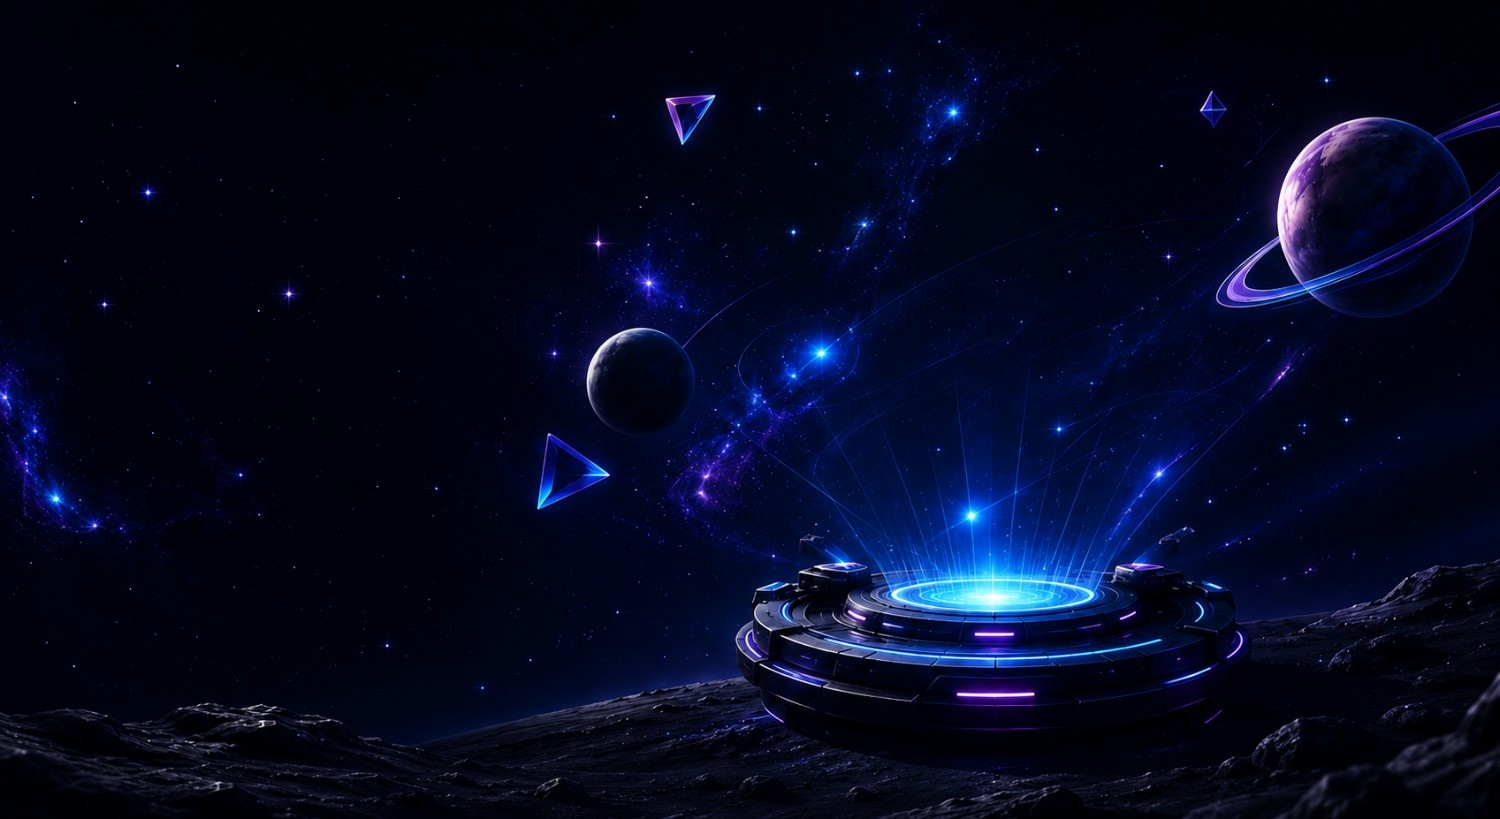
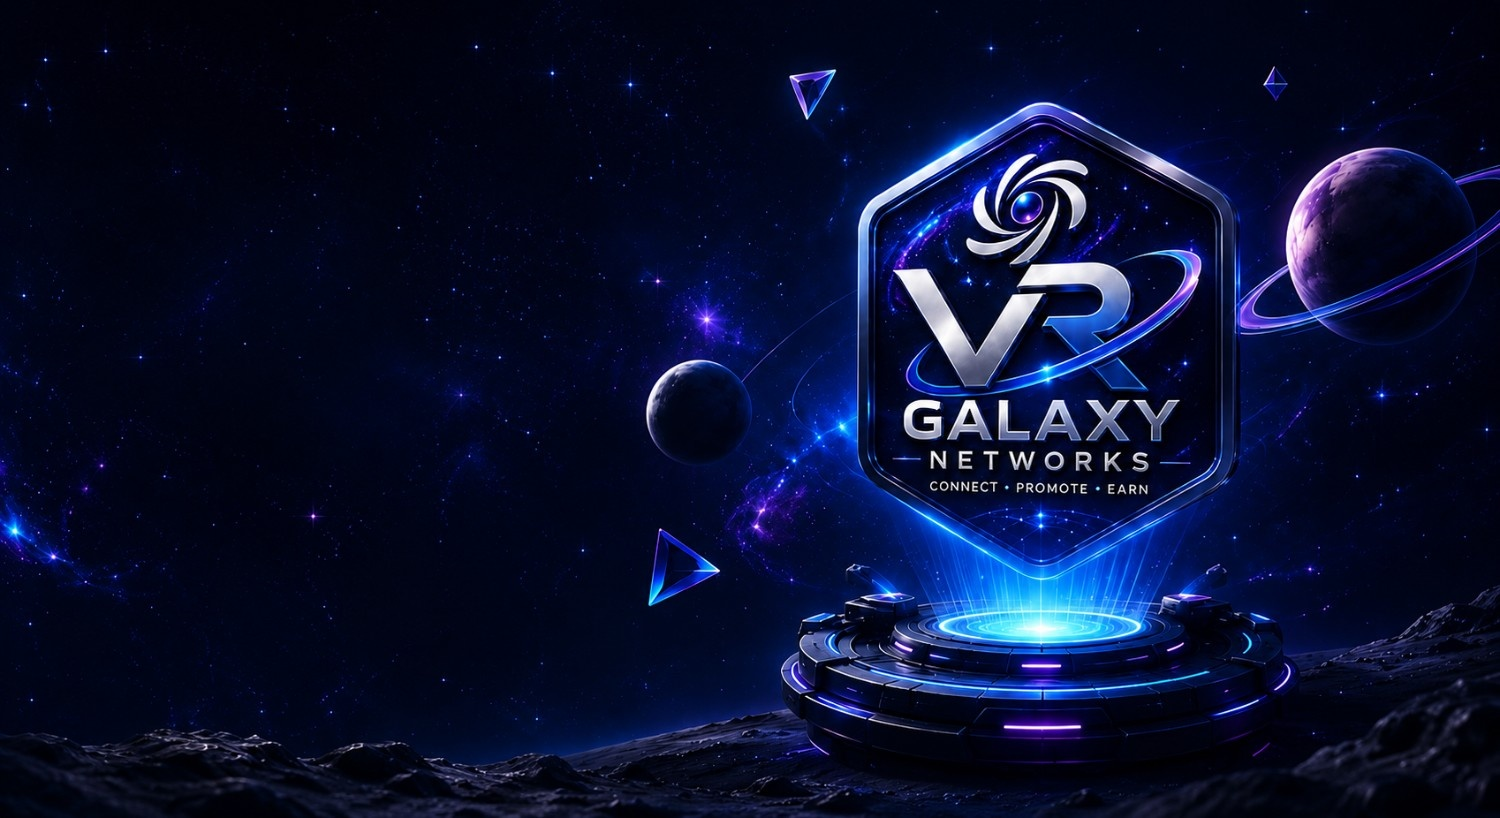
change bg on forms

diff --git a/components/home/HeroSection.tsx b/components/home/HeroSection.tsx
@@ -30,20 +30,9 @@ export function HeroSection() {
 
   return (
     <section
-      className="relative w-full overflow-hidden bg-[#02040a] flex flex-col min-h-[100svh] lg:h-[100svh] lg:max-h-[100svh]"
-      aria-label="Hero Section"
+      className="relative w-full overflow-hidden bg-[#02040a] flex flex-col min-h-[100svh] lg:h-[100svh] lg:max-h-[100svh] bg-cover bg-center bg-no-repeat bg-[url('/bg1.jpeg')] lg:bg-[url('/bg.jpeg')]"
+      aria-label="VR Galaxy Networks Hero Section"
     >
-      {/* ── Responsive Cosmic Background ── */}
-      <picture className="absolute inset-0 w-full h-full pointer-events-none select-none z-0">
-        <source media="(max-width: 768px)" srcSet="/bg1.jpeg" />
-        <source media="(min-width: 769px)" srcSet="/bg.jpeg" />
-        <img
-          src="/bg.jpeg"
-          alt="Cosmic Background"
-          className="w-full h-full object-cover"
-        />
-      </picture>
-
       {/* Subtle Dark Overlay for Higher Text Contrast */}
       <div className="absolute inset-0 bg-black/15 pointer-events-none select-none z-10" />
 
@@ -90,8 +79,20 @@ export function HeroSection() {
                 </span>
               </motion.div>
 
-              {/* Giant stacked headings */}
-              <div className="flex flex-col gap-1 mb-5 font-black tracking-tight leading-[0.9] w-full min-w-0">
+              {/* Giant stacked headings (semantic h1 for SEO) */}
+              <motion.h1
+                initial="hidden"
+                animate="visible"
+                variants={{
+                  hidden: { opacity: 0 },
+                  visible: {
+                    opacity: 1,
+                    transition: { staggerChildren: 0.12 }
+                  }
+                }}
+                className="flex flex-col gap-1 mb-5 font-black tracking-tight leading-[0.9] w-full min-w-0"
+                style={{ fontSize: 'clamp(2.4rem, 6.2vw, 4.8rem)' }}
+              >
                 {[
                   { key: 'title1', className: 'text-white' },
                   { key: 'title2', className: 'text-white' },
@@ -100,30 +101,30 @@ export function HeroSection() {
                     className:
                       'bg-gradient-to-r from-purple-400 via-indigo-400 to-blue-500 bg-clip-text text-transparent drop-shadow-[0_0_20px_rgba(168,85,247,0.55)]',
                   },
-                ].map(({ key, className }, idx) => (
-                  <motion.h1
+                ].map(({ key, className }) => (
+                  <motion.span
                     key={key}
-                    initial={{ opacity: 0, x: -25 }}
-                    animate={{ opacity: 1, x: 0 }}
-                    transition={{ duration: 0.65, delay: 0.1 + idx * 0.12 }}
+                    variants={{
+                      hidden: { opacity: 0, x: -25 },
+                      visible: { opacity: 1, x: 0, transition: { duration: 0.65 } }
+                    }}
                     className={className}
-                    style={{ fontSize: 'clamp(2.4rem, 6.2vw, 4.8rem)' }}
                   >
                     {t(key as 'title1' | 'title2' | 'title3')}
-                  </motion.h1>
+                  </motion.span>
                 ))}
-              </div>
+              </motion.h1>
 
-              {/* Subtitle */}
-              <motion.p
+              {/* Subtitle (semantic h2 for SEO) */}
+              <motion.h2
                 initial={{ opacity: 0, y: 12 }}
                 animate={{ opacity: 1, y: 0 }}
                 transition={{ duration: 0.7, delay: 0.42 }}
-                className="text-slate-300 leading-relaxed font-semibold mb-6 max-w-xl"
+                className="text-slate-300 leading-relaxed font-semibold mb-6 max-w-xl text-balance"
                 style={{ fontSize: 'clamp(0.85rem,1.5vw,1.1rem)' }}
               >
                 {t('subtitle')}
-              </motion.p>
+              </motion.h2>
 
               {/* CTA Buttons */}
               <motion.div
@@ -226,40 +227,8 @@ export function HeroSection() {
               </div>
             </div>
 
-            {/* ── RIGHT COLUMN (Floating 3D Logo Badge) ── */}
-            <div className="lg:col-span-5 flex items-center justify-center relative w-full min-w-0 overflow-visible py-8 lg:py-0">
-              <motion.div
-                initial={{ opacity: 0, scale: 0.85, y: 15 }}
-                animate={{ 
-                  opacity: 1, 
-                  scale: 1, 
-                  y: [0, -15, 0] 
-                }}
-                transition={{
-                  opacity: { duration: 0.8, delay: 0.2 },
-                  scale: { duration: 0.8, delay: 0.2 },
-                  y: { 
-                    duration: 6, 
-                    repeat: Infinity, 
-                    ease: 'easeInOut' 
-                  }
-                }}
-                whileHover={{ scale: 1.05, rotateY: 8, rotateX: -4 }}
-                className="relative flex items-center justify-center cursor-pointer select-none"
-                style={{
-                  width: 'clamp(220px, 38vw, 440px)',
-                  height: 'clamp(220px, 38vw, 440px)',
-                  transformStyle: 'preserve-3d',
-                  perspective: '1000px',
-                }}
-              >
-                <img
-                  src="/logo.png"
-                  alt="VR Galaxy Networks"
-                  className="w-full h-full object-contain filter drop-shadow-[0_0_35px_rgba(59,130,246,0.4)]"
-                />
-              </motion.div>
-            </div>
+            {/* ── RIGHT COLUMN (Empty Spacer to reveal the background image pedestal/logo) ── */}
+            <div className="lg:col-span-5 hidden lg:block w-full min-w-0" />
 
           </div>
         </div>

diff --git a/app/(auth)/register/page.tsx b/app/(auth)/register/page.tsx
@@ -12,7 +12,13 @@ import { Suspense } from 'react'
 function SubmitButton() {
   const { pending } = useFormStatus()
   return (
-    <Button type="submit" size="lg" className="w-full" loading={pending}>
+    <Button
+      type="submit"
+      size="lg"
+      className="w-full rounded-full font-extrabold text-white bg-gradient-to-r from-purple-600 via-indigo-600 to-blue-500 hover:from-purple-500 hover:to-blue-400 transition-all duration-300 shadow-[0_0_25px_rgba(168,85,247,0.5)] hover:shadow-[0_0_35px_rgba(59,130,246,0.65)] border border-white/10 gap-2 cursor-pointer flex items-center justify-center"
+      style={{ height: 'clamp(2.75rem,5.5vh,3.5rem)', fontSize: 'clamp(0.85rem,1.3vw,1rem)' }}
+      loading={pending}
+    >
       {pending ? 'Creating Account...' : 'Create Account'}
     </Button>
   )
@@ -41,7 +47,7 @@ function RegisterForm() {
       {/* Logo */}
       <div className="text-center mb-6">
         <Link href="/" className="inline-flex items-center gap-2 font-bold text-xl mb-3">
-          <div className="w-10 h-10 rounded-xl bg-gradient-to-br from-primary to-blue-600 flex items-center justify-center">
+          <div className="w-10 h-10 rounded-xl bg-gradient-to-r from-purple-600 via-indigo-600 to-blue-500 flex items-center justify-center">
             <TrendingUp className="w-5 h-5 text-white" />
           </div>
           <span className="text-white text-2xl">InvestPro</span>
@@ -66,7 +72,7 @@ function RegisterForm() {
           <label className="text-xs text-white/70 font-medium block mb-1">Full Name</label>
           <div className="relative">
             <User className="absolute left-3 top-1/2 -translate-y-1/2 w-4 h-4 text-white/40" />
-            <input name="name" type="text" required placeholder="Arjun Kumar" className="w-full pl-10 pr-4 py-2.5 rounded-xl bg-white/10 border border-white/10 text-white placeholder:text-white/30 focus:outline-none focus:ring-2 focus:ring-primary/50 text-sm transition-all" />
+            <input name="name" type="text" required placeholder="Arjun Kumar" className="w-full pl-10 pr-4 py-2.5 rounded-xl bg-white/10 border border-white/10 text-white placeholder:text-white/30 focus:outline-none focus:ring-2 focus:ring-indigo-500/50 focus:border-indigo-400 text-sm transition-all" />
           </div>
         </div>
 
@@ -75,7 +81,7 @@ function RegisterForm() {
           <label className="text-xs text-white/70 font-medium block mb-1">Email Address</label>
           <div className="relative">
             <Mail className="absolute left-3 top-1/2 -translate-y-1/2 w-4 h-4 text-white/40" />
-            <input name="email" type="email" required placeholder="[email redacted]" className="w-full pl-10 pr-4 py-2.5 rounded-xl bg-white/10 border border-white/10 text-white placeholder:text-white/30 focus:outline-none focus:ring-2 focus:ring-primary/50 text-sm transition-all" />
+            <input name="email" type="email" required placeholder="[email redacted]" className="w-full pl-10 pr-4 py-2.5 rounded-xl bg-white/10 border border-white/10 text-white placeholder:text-white/30 focus:outline-none focus:ring-2 focus:ring-indigo-500/50 focus:border-indigo-400 text-sm transition-all" />
           </div>
         </div>
 
@@ -84,7 +90,7 @@ function RegisterForm() {
           <label className="text-xs text-white/70 font-medium block mb-1">Phone Number</label>
           <div className="relative">
             <Phone className="absolute left-3 top-1/2 -translate-y-1/2 w-4 h-4 text-white/40" />
-            <input name="phone" type="tel" required placeholder="[phone redacted]" className="w-full pl-10 pr-4 py-2.5 rounded-xl bg-white/10 border border-white/10 text-white placeholder:text-white/30 focus:outline-none focus:ring-2 focus:ring-primary/50 text-sm transition-all" />
+            <input name="phone" type="tel" required placeholder="[phone redacted]" className="w-full pl-10 pr-4 py-2.5 rounded-xl bg-white/10 border border-white/10 text-white placeholder:text-white/30 focus:outline-none focus:ring-2 focus:ring-indigo-500/50 focus:border-indigo-400 text-sm transition-all" />
           </div>
         </div>
 
@@ -93,7 +99,7 @@ function RegisterForm() {
           <label className="text-xs text-white/70 font-medium block mb-1">Password</label>
           <div className="relative">
             <Lock className="absolute left-3 top-1/2 -translate-y-1/2 w-4 h-4 text-white/40" />
-            <input name="password" type={showPassword ? 'text' : 'password'} required placeholder="Min 8 chars, 1 uppercase, 1 number" className="w-full pl-10 pr-10 py-2.5 rounded-xl bg-white/10 border border-white/10 text-white placeholder:text-white/30 focus:outline-none focus:ring-2 focus:ring-primary/50 text-sm transition-all" />
+            <input name="password" type={showPassword ? 'text' : 'password'} required placeholder="Min 8 chars, 1 uppercase, 1 number" className="w-full pl-10 pr-10 py-2.5 rounded-xl bg-white/10 border border-white/10 text-white placeholder:text-white/30 focus:outline-none focus:ring-2 focus:ring-indigo-500/50 focus:border-indigo-400 text-sm transition-all" />
             <button type="button" onClick={() => setShowPassword(!showPassword)} className="absolute right-3 top-1/2 -translate-y-1/2 text-white/40 hover:text-white/70">
               {showPassword ? <EyeOff className="w-4 h-4" /> : <Eye className="w-4 h-4" />}
             </button>
@@ -105,7 +111,7 @@ function RegisterForm() {
           <label className="text-xs text-white/70 font-medium block mb-1">Confirm Password</label>
           <div className="relative">
             <Lock className="absolute left-3 top-1/2 -translate-y-1/2 w-4 h-4 text-white/40" />
-            <input name="confirmPassword" type="password" required placeholder="Re-enter password" className="w-full pl-10 pr-4 py-2.5 rounded-xl bg-white/10 border border-white/10 text-white placeholder:text-white/30 focus:outline-none focus:ring-2 focus:ring-primary/50 text-sm transition-all" />
+            <input name="confirmPassword" type="password" required placeholder="Re-enter password" className="w-full pl-10 pr-4 py-2.5 rounded-xl bg-white/10 border border-white/10 text-white placeholder:text-white/30 focus:outline-none focus:ring-2 focus:ring-indigo-500/50 focus:border-indigo-400 text-sm transition-all" />
           </div>
         </div>
 
@@ -114,7 +120,7 @@ function RegisterForm() {
           <label className="text-xs text-white/70 font-medium block mb-1">Referral Code (Optional)</label>
           <div className="relative">
             <Gift className="absolute left-3 top-1/2 -translate-y-1/2 w-4 h-4 text-white/40" />
-            <input name="referralCode" type="text" defaultValue={refCode} placeholder="ARJUN001" className="w-full pl-10 pr-4 py-2.5 rounded-xl bg-white/10 border border-white/10 text-white placeholder:text-white/30 focus:outline-none focus:ring-2 focus:ring-primary/50 text-sm transition-all" />
+            <input name="referralCode" type="text" defaultValue={refCode} placeholder="ARJUN001" className="w-full pl-10 pr-4 py-2.5 rounded-xl bg-white/10 border border-white/10 text-white placeholder:text-white/30 focus:outline-none focus:ring-2 focus:ring-indigo-500/50 focus:border-indigo-400 text-sm transition-all" />
           </div>
         </div>
 
@@ -123,9 +129,9 @@ function RegisterForm() {
           <input name="terms" type="checkbox" required className="mt-0.5 rounded" />
           <span className="text-xs text-white/50">
             I agree to the{' '}
-            <Link href="/terms" className="text-primary hover:underline">Terms & Conditions</Link>{' '}
+            <Link href="/terms" className="text-indigo-400 hover:text-indigo-300 hover:underline">Terms & Conditions</Link>{' '}
             and{' '}
-            <Link href="/privacy" className="text-primary hover:underline">Privacy Policy</Link>
+            <Link href="/privacy" className="text-indigo-400 hover:text-indigo-300 hover:underline">Privacy Policy</Link>
           </span>
         </label>
 
@@ -134,7 +140,7 @@ function RegisterForm() {
 
       <p className="text-center text-sm text-white/50 mt-4">
         Already have an account?{' '}
-        <Link href="/login" className="text-primary font-medium hover:underline">Sign In</Link>
+        <Link href="/login" className="text-indigo-400 hover:text-indigo-300 font-medium hover:underline">Sign In</Link>
       </p>
     </div>
   )

diff --git a/app/(auth)/login/page.tsx b/app/(auth)/login/page.tsx
@@ -11,7 +11,13 @@ import type { Metadata } from 'next'
 function SubmitButton() {
   const { pending } = useFormStatus()
   return (
-    <Button type="submit" size="lg" className="w-full" loading={pending}>
+    <Button
+      type="submit"
+      size="lg"
+      className="w-full rounded-full font-extrabold text-white bg-gradient-to-r from-purple-600 via-indigo-600 to-blue-500 hover:from-purple-500 hover:to-blue-400 transition-all duration-300 shadow-[0_0_25px_rgba(168,85,247,0.5)] hover:shadow-[0_0_35px_rgba(59,130,246,0.65)] border border-white/10 gap-2 cursor-pointer flex items-center justify-center"
+      style={{ height: 'clamp(2.75rem,5.5vh,3.5rem)', fontSize: 'clamp(0.85rem,1.3vw,1rem)' }}
+      loading={pending}
+    >
       {pending ? 'Signing in...' : 'Sign In'}
     </Button>
   )
@@ -34,7 +40,7 @@ export default function LoginPage() {
       {/* Logo */}
       <div className="text-center mb-8">
         <Link href="/" className="inline-flex items-center gap-2 font-bold text-xl mb-4">
-          <div className="w-10 h-10 rounded-xl bg-gradient-to-br from-primary to-blue-600 flex items-center justify-center">
+          <div className="w-10 h-10 rounded-xl bg-gradient-to-r from-purple-600 via-indigo-600 to-blue-500 flex items-center justify-center">
             <TrendingUp className="w-5 h-5 text-white" />
           </div>
           <span className="text-white text-2xl">InvestPro</span>
@@ -60,7 +66,7 @@ export default function LoginPage() {
               type="email"
               required
               placeholder="[email redacted]"
-              className="w-full pl-10 pr-4 py-3 rounded-xl bg-white/10 border border-white/10 text-white placeholder:text-white/30 focus:outline-none focus:ring-2 focus:ring-primary/50 focus:border-primary transition-all"
+              className="w-full pl-10 pr-4 py-3 rounded-xl bg-white/10 border border-white/10 text-white placeholder:text-white/30 focus:outline-none focus:ring-2 focus:ring-indigo-500/50 focus:border-indigo-400 transition-all"
             />
           </div>
         </div>
@@ -69,7 +75,7 @@ export default function LoginPage() {
         <div>
           <div className="flex items-center justify-between mb-1.5">
             <label className="text-sm text-white/70 font-medium">Password</label>
-            <Link href="/forgot-password" className="text-xs text-primary hover:underline">
+            <Link href="/forgot-password" className="text-xs text-indigo-400 hover:text-indigo-300 hover:underline">
               Forgot password?
             </Link>
           </div>
@@ -80,7 +86,7 @@ export default function LoginPage() {
               type={showPassword ? 'text' : 'password'}
               required
               placeholder="••••••••"
-              className="w-full pl-10 pr-10 py-3 rounded-xl bg-white/10 border border-white/10 text-white placeholder:text-white/30 focus:outline-none focus:ring-2 focus:ring-primary/50 focus:border-primary transition-all"
+              className="w-full pl-10 pr-10 py-3 rounded-xl bg-white/10 border border-white/10 text-white placeholder:text-white/30 focus:outline-none focus:ring-2 focus:ring-indigo-500/50 focus:border-indigo-400 transition-all"
             />
             <button
               type="button"
@@ -97,7 +103,7 @@ export default function LoginPage() {
 
       <p className="text-center text-sm text-white/50 mt-6">
         Don&apos;t have an account?{' '}
-        <Link href="/register" className="text-primary font-medium hover:underline">
+        <Link href="/register" className="text-indigo-400 hover:text-indigo-300 font-medium hover:underline">
           Create Account
         </Link>
       </p>

diff --git a/app/(auth)/layout.tsx b/app/(auth)/layout.tsx
@@ -1,10 +1,13 @@
 export default function AuthLayout({ children }: { children: React.ReactNode }) {
   return (
-    <div className="min-h-screen bg-gradient-to-br from-brand-950 via-brand-900 to-brand-800 flex items-center justify-center p-4">
+    <div className="min-h-screen flex items-center justify-center p-4 relative overflow-hidden bg-[#02040a] bg-cover bg-center bg-no-repeat bg-[url('/bg3.jpeg')] lg:bg-[url('/bg2.jpeg')]">
+      {/* Subtle overlay for form contrast */}
+      <div className="absolute inset-0 bg-black/40 pointer-events-none select-none z-0" />
+
       {/* Background effects */}
-      <div className="absolute inset-0 overflow-hidden">
-        <div className="absolute top-0 left-0 w-96 h-96 bg-primary/10 rounded-full blur-3xl" />
-        <div className="absolute bottom-0 right-0 w-96 h-96 bg-gold-500/5 rounded-full blur-3xl" />
+      <div className="absolute inset-0 overflow-hidden z-0 pointer-events-none">
+        <div className="absolute top-0 left-0 w-96 h-96 bg-purple-600/10 rounded-full blur-3xl" />
+        <div className="absolute bottom-0 right-0 w-96 h-96 bg-indigo-500/5 rounded-full blur-3xl" />
       </div>
       <div className="relative z-10 w-full max-w-md">
         {children}